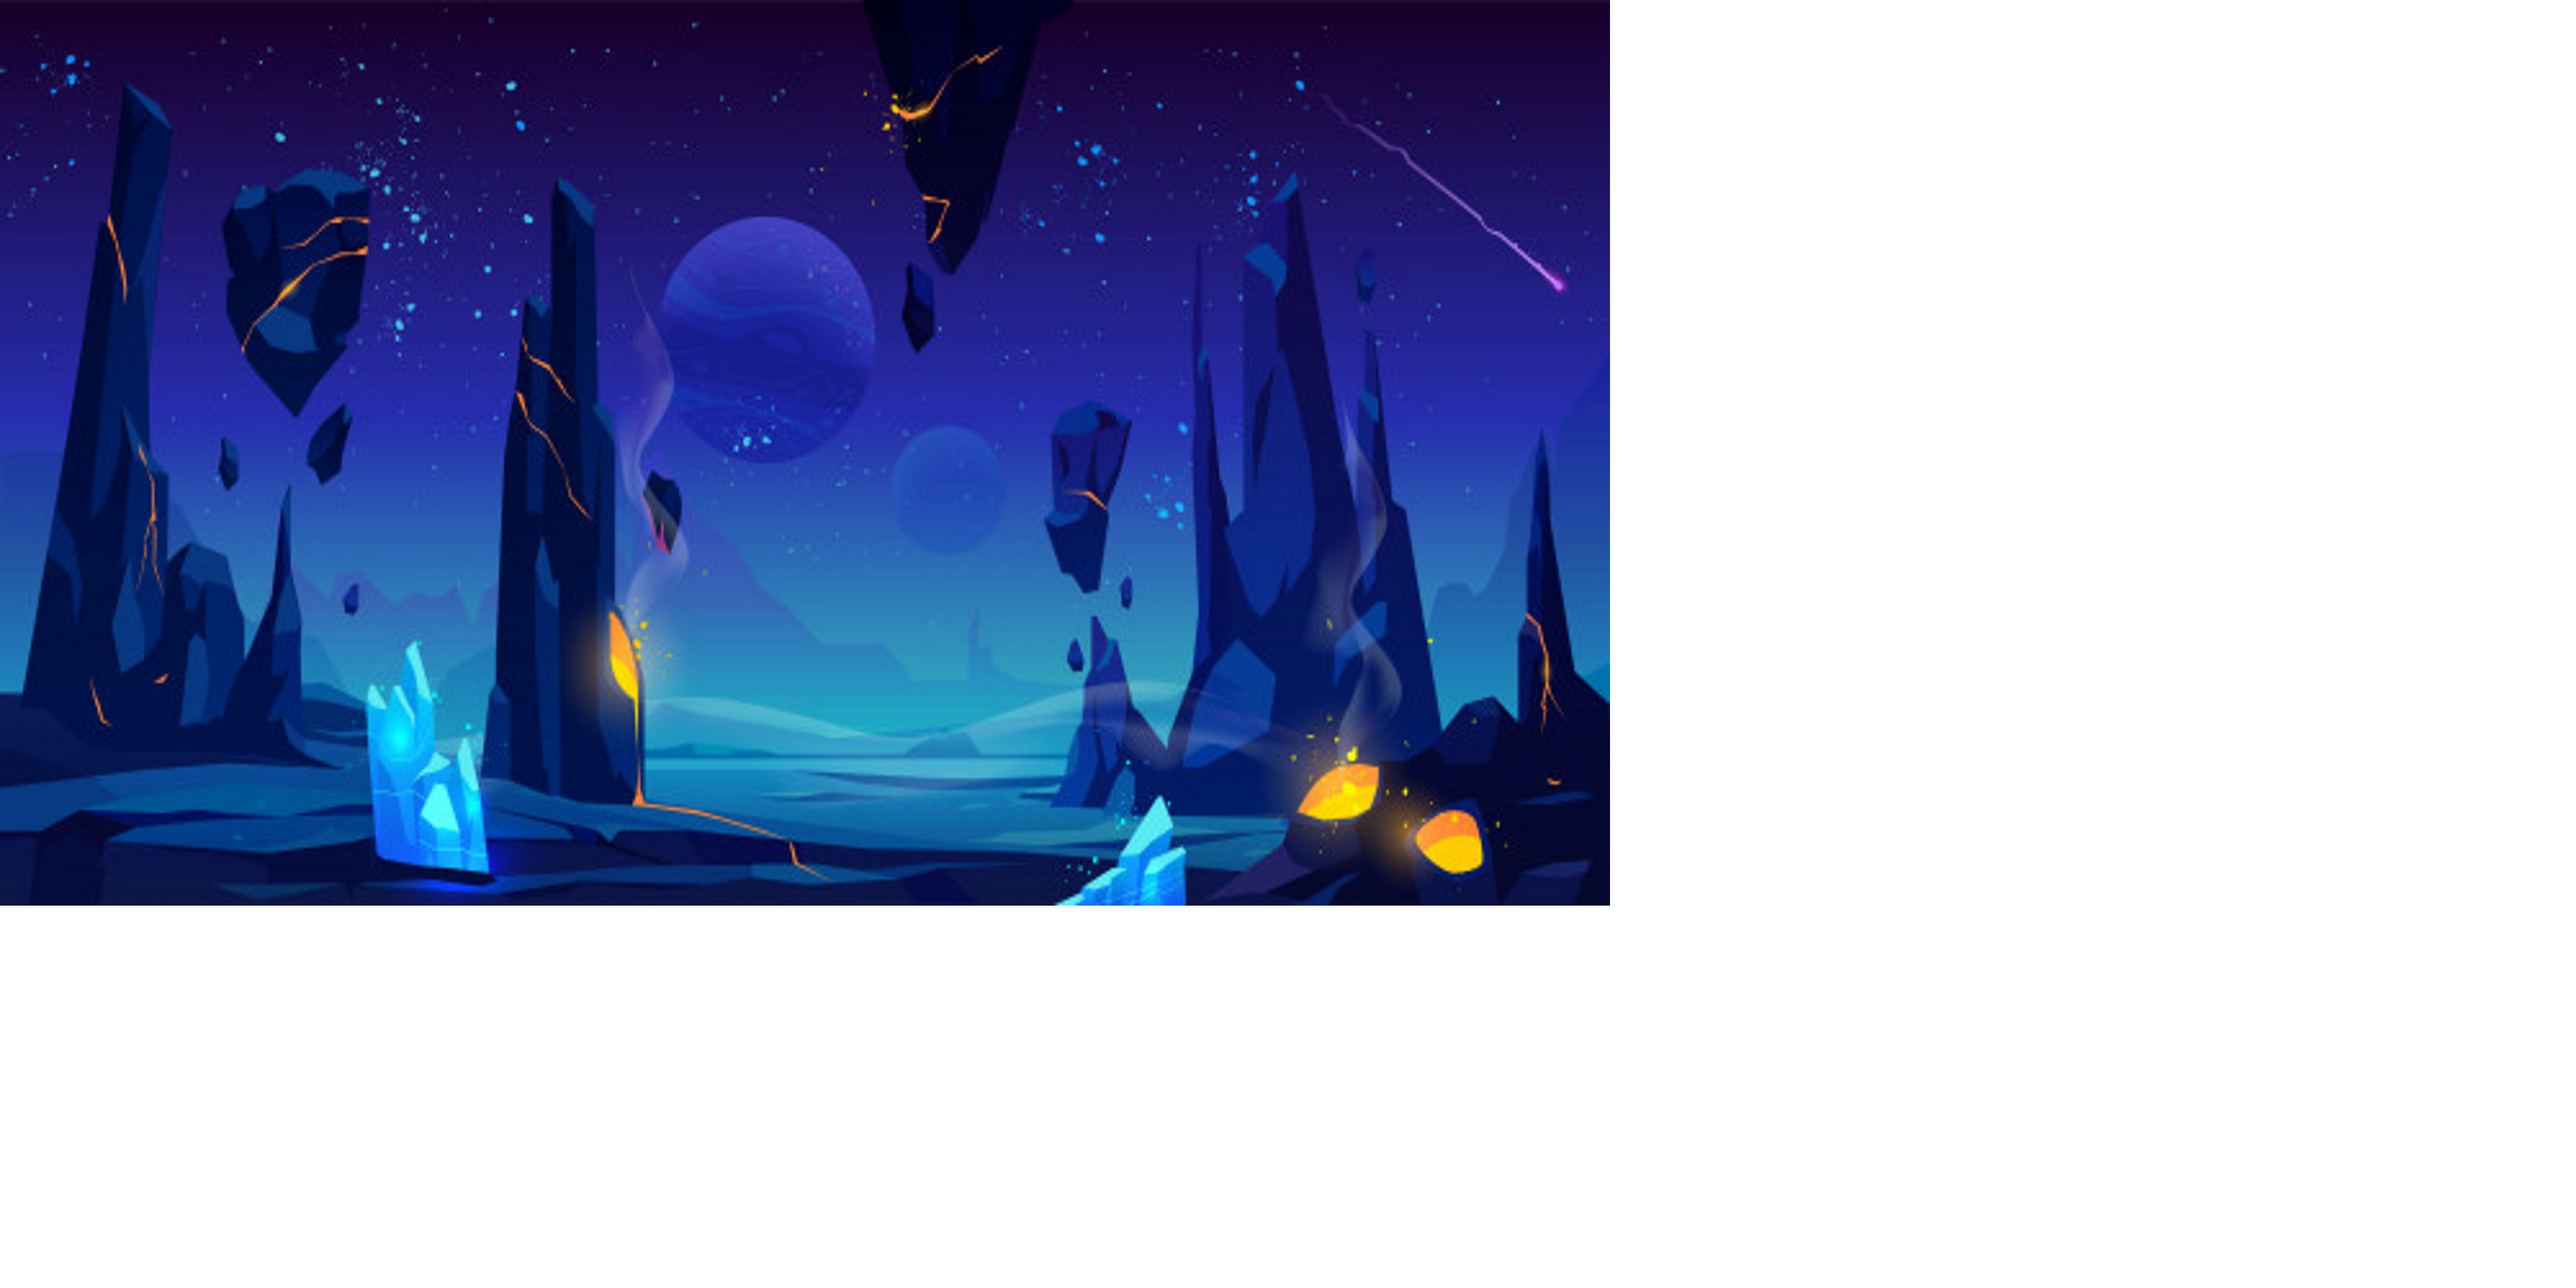
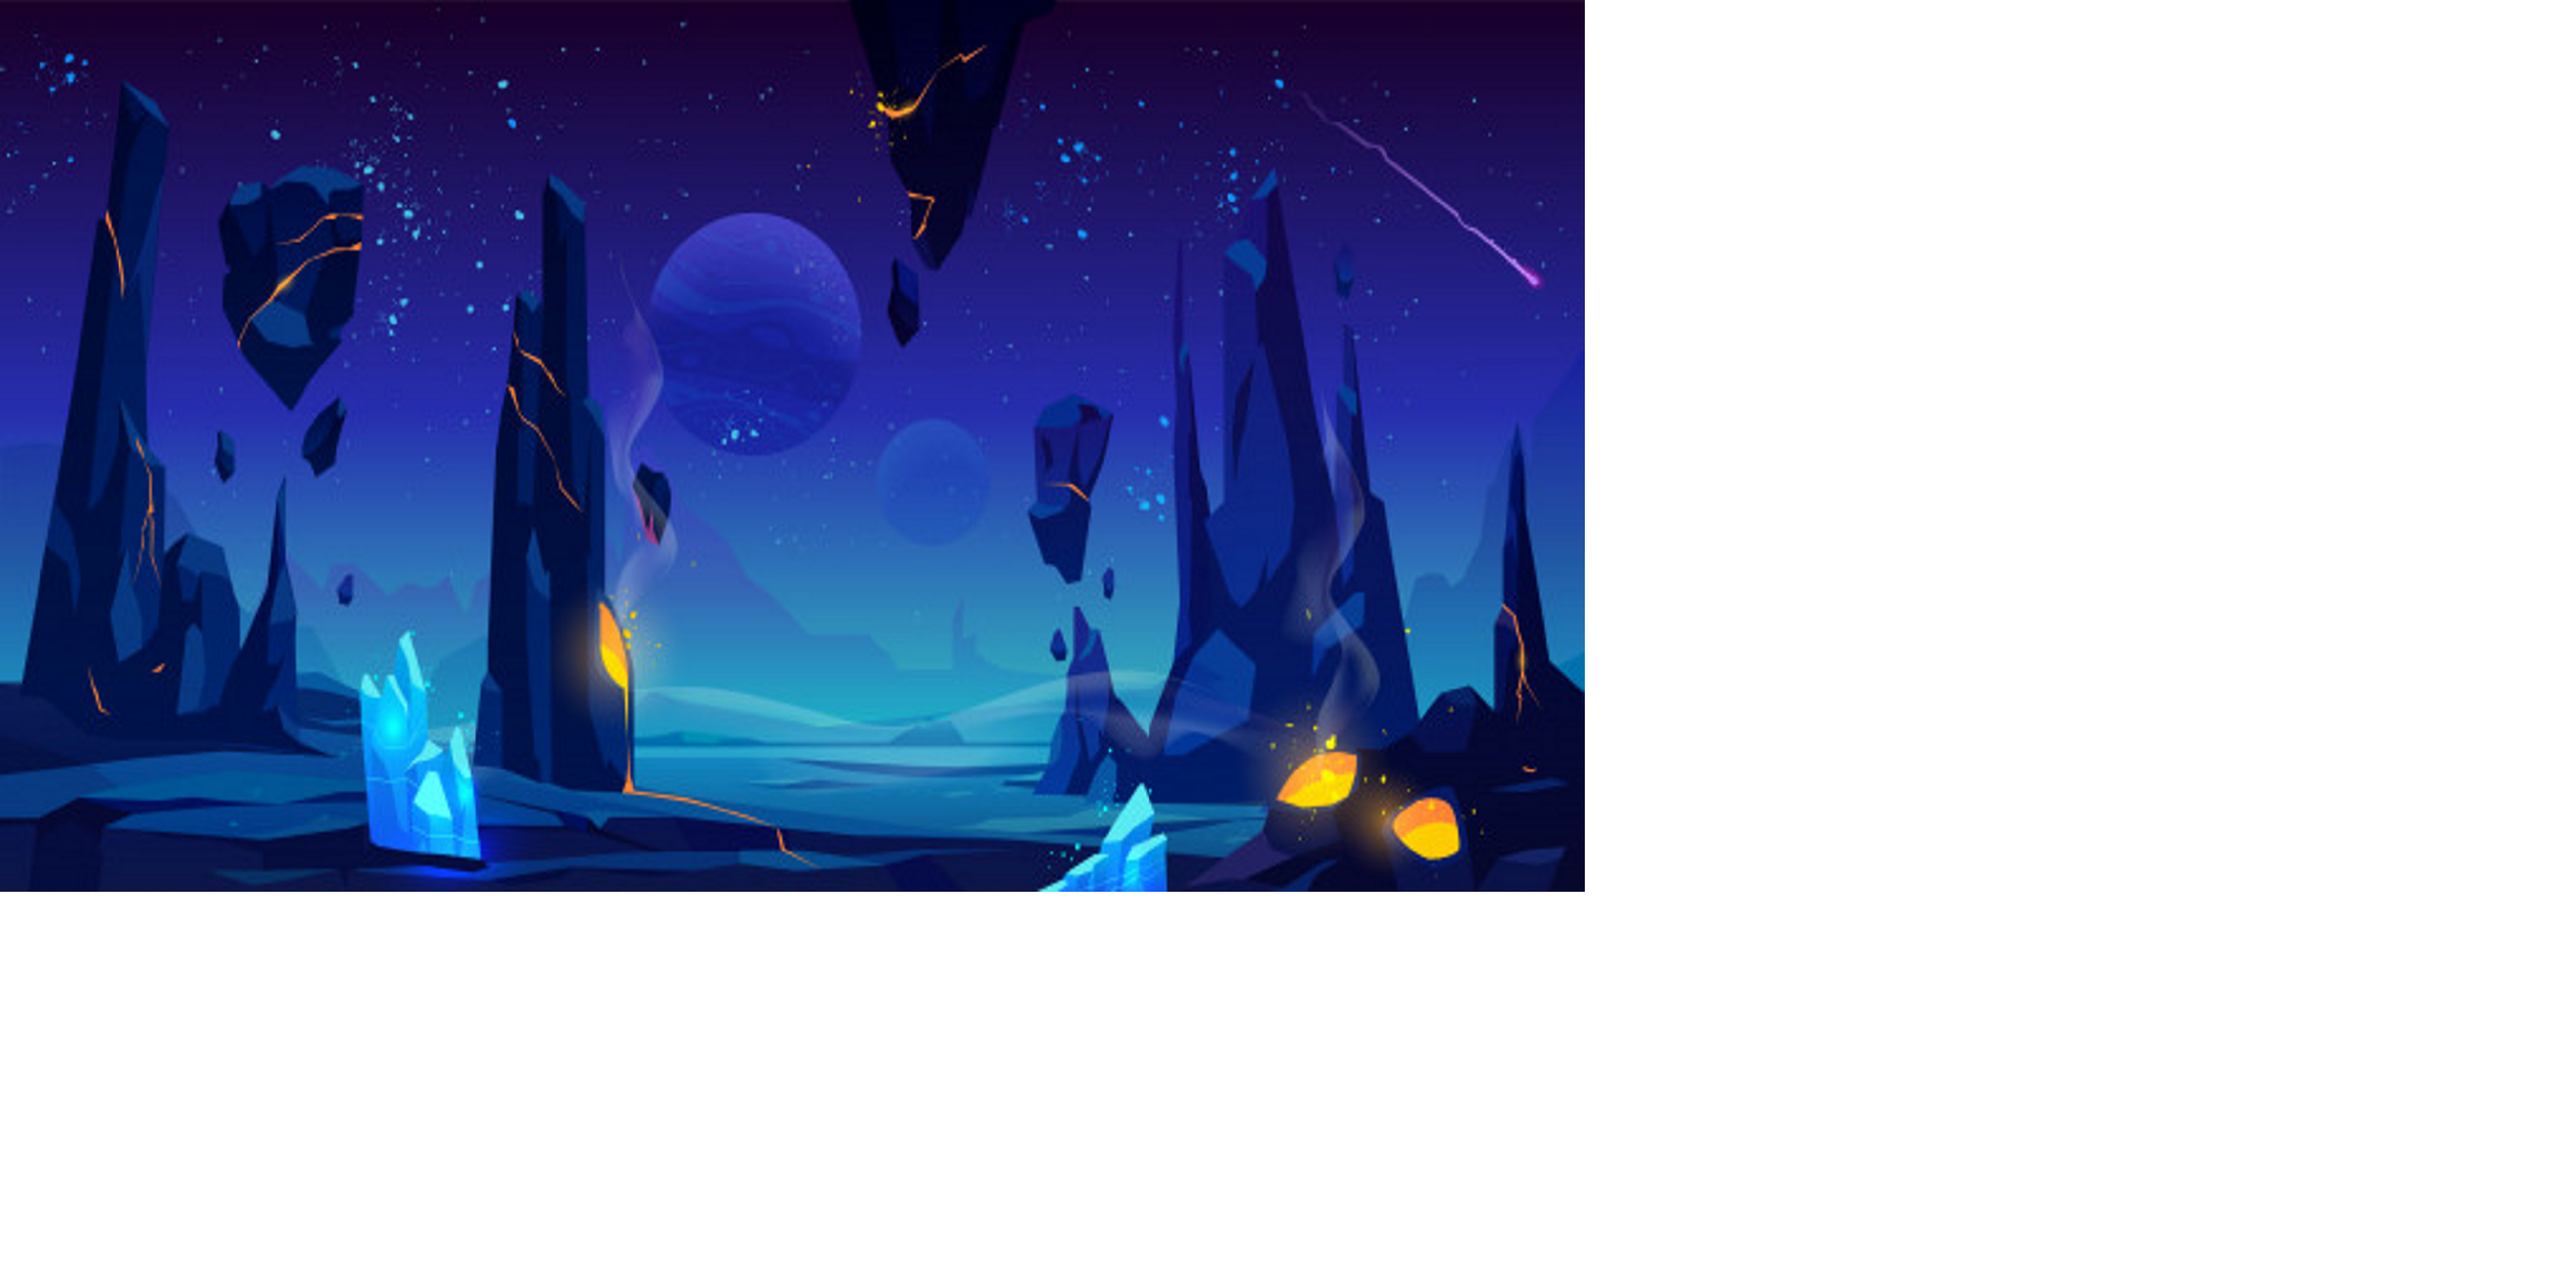
Add UI, Delete Collision, Change Buffer to 2520 x 1418
- Add UI
- Delete Collision
- Change Buffer to 2520 x 1418
- Fix Voon Meng Name XDDDD

diff --git a/CGP_Assignment/Code/Level/TestLevel.cpp b/CGP_Assignment/Code/Level/TestLevel.cpp
@@ -1,10 +1,10 @@
 #include "TestLevel.h"
 #include "../Component/Map.h"
-#include "../Component/Collision.h"
 #include "../Component/DirectInput.h"
 #include "../Component/EnemyController.h"
 #include "../Component/TowerBuilding.h"
 #include "../Component/GameWindows.h"
+#include "../Component/UI.h"
 
 TestLevel::TestLevel()
 {
@@ -17,6 +17,7 @@ TestLevel::~TestLevel()
 }
 
 TowerBuilding * towerBuilding;
+Ui * ui;
 
 void TestLevel::init()
 {
@@ -32,16 +33,23 @@ void TestLevel::init()
 
 	towerBuilding = new TowerBuilding;
 	towerBuilding->init();
+
+	ui = new Ui;
+	ui->init();
 }
 
 void TestLevel::fixUpdate()
 {
+	ui->fixUpdate();
+
 	towerBuilding->fixUpdate();
 	EnemyController::getInstance()->fixUpdate();
 }
 
 void TestLevel::update()
 {
+	ui->update();
+
 	if (GameWindows::getInstance()->keyIn == VK_DOWN)
 	{
 		EnemyController::getInstance()->isNextWave = true;
@@ -53,10 +61,14 @@ void TestLevel::update()
 
 void TestLevel::draw()
 {
+	ui->backDraw();
+
 	Map::getInstance()->drawMap();
 
 	EnemyController::getInstance()->draw();
 	towerBuilding->draw();
+
+	ui->draw();
 }
 
 void TestLevel::release()
@@ -64,4 +76,5 @@ void TestLevel::release()
 	EnemyController::getInstance()->release();
 	EnemyController::getInstance()->releaseInsrance();
 	towerBuilding->release();
+	ui->release();
 }

diff --git a/CGP_Assignment/Code/Level/MainMenu.cpp b/CGP_Assignment/Code/Level/MainMenu.cpp
@@ -7,6 +7,9 @@
 #include <d3d9.h>
 #include <stdio.h>
 
+#define START	0
+#define QUIT	1
+
 MainMenu::MainMenu()
 {
 	sprite = NULL;
@@ -51,8 +54,8 @@ void MainMenu::init()
 
 	//Background
 	backgroundRect.top = backgroundRect.left = 0;
-	backgroundRect.bottom = 1440;
-	backgroundRect.right = 2560;
+	backgroundRect.bottom = 1418;
+	backgroundRect.right = 2520;
 
 	//Title
 	titleRect1.top = 200;
@@ -66,14 +69,14 @@ void MainMenu::init()
 	titleRect2.right = titleRect2.left + 2000;
 
 	//Made by
-	madeByRect.top = 1250;
+	madeByRect.top = 1230;
 	madeByRect.left = 1075;
 	madeByRect.bottom = madeByRect.top + 100;
 	madeByRect.right = madeByRect.left + 2000;
 	
 	//Start Button
 	Button * button = new Button;
-	button->position.x = 1280;
+	button->position.x = 1250;
 	button->position.y = 720;
 	button->size.x = 345;
 	button->size.y = 122;
@@ -93,7 +96,7 @@ void MainMenu::init()
 	
 	//Quit Button
 	button = new Button;
-	button->position.x = 1280;
+	button->position.x = 1250;
 	button->position.y = 880;
 	button->size.x = 345;
 	button->size.y = 122;
@@ -174,11 +177,11 @@ void MainMenu::update()
 		{
 			switch (function)
 			{
-			case 0:
+			case START:
 				GameStateManager::getInstance()->currentState = 1;
 				break;
 
-			case 1:
+			case QUIT:
 				PostQuitMessage(0);
 				break;
 

diff --git a/CGP_Assignment/Code/Component/UI.cpp b/CGP_Assignment/Code/Component/UI.cpp
@@ -1,0 +1,70 @@
+#include "UI.h"
+#include "Graphic.h"
+#include "Map.h"
+
+Ui::Ui()
+{
+
+}
+
+Ui::~Ui()
+{
+
+}
+
+void Ui::init()
+{
+	hr[0] = D3DXCreateSprite(Graphic::getInstance()->d3dDevice, &sprite);
+	hr[1] = D3DXCreateTextureFromFile(Graphic::getInstance()->d3dDevice, "resource/UI_Background.png", &backgroundTexture);
+	hr[2] = D3DXCreateTextureFromFile(Graphic::getInstance()->d3dDevice, "resource/Button2.png", &buttonTexture);
+
+	for (int i = 0; i < 3; i++)
+	{
+		if (FAILED(hr[i]))
+		{
+			PostQuitMessage(0);
+		}
+	}
+}
+
+void Ui::fixUpdate()
+{
+
+}
+
+void Ui::update()
+{
+
+}
+
+void Ui::draw()
+{
+	sprite->Begin(D3DXSPRITE_ALPHABLEND);
+	
+	sprite->Draw(buttonTexture, NULL, NULL, NULL, D3DCOLOR_XRGB(0, 0, 255));
+
+	sprite->End();
+}
+
+void Ui::release()
+{
+	sprite->Release();
+	sprite = NULL;
+
+	backgroundTexture->Release();
+	backgroundTexture = NULL;
+
+	buttonTexture->Release();
+	buttonTexture = NULL;
+}
+
+void Ui::backDraw()
+{
+	sprite->Begin(D3DXSPRITE_ALPHABLEND);
+
+	sprite->Draw(backgroundTexture, NULL, NULL, NULL, D3DCOLOR_XRGB(255, 255, 255));
+
+	sprite->End();
+}
+
+

diff --git a/CGP_Assignment/Code/Component/UI.h b/CGP_Assignment/Code/Component/UI.h
@@ -1,0 +1,37 @@
+#ifndef UI
+#define UI
+
+#include <d3dx9.h>
+#include <vector>
+
+#include "../Object/Button.h"
+
+#define UI_X_FIX 20
+
+class Ui
+{
+public:
+	Ui();
+	~Ui();
+
+	HRESULT hr[3];
+
+	void init();
+	void fixUpdate();
+	void update();
+	void draw();
+	void release();
+
+	void backDraw();
+
+	LPD3DXSPRITE sprite;
+
+	LPDIRECT3DTEXTURE9 backgroundTexture;
+	LPDIRECT3DTEXTURE9 buttonTexture;
+
+	std::vector<Button*> buttonList;
+
+	D3DXVECTOR2 mapPos;
+};
+
+#endif //!MAIN_MENU

diff --git a/CGP_Assignment/Code/Component/GameWindows.cpp b/CGP_Assignment/Code/Component/GameWindows.cpp
@@ -64,7 +64,6 @@ LRESULT CALLBACK WindowProcedure(HWND hWnd, UINT message, WPARAM wParam, LPARAM 
 			GameWindows::getInstance()->mousePos.x = min(GameWindows::getInstance()->mousePos.x, BUFFER_WIDTH);
 			GameWindows::getInstance()->mousePos.y = min(GameWindows::getInstance()->mousePos.y, BUFFER_HEIGHT);
 		}
-		printf("%.2f, %.2f\n", GameWindows::getInstance()->mousePos.x, GameWindows::getInstance()->mousePos.y);
 		break;
 
 	default:

diff --git a/CGP_Assignment/Code/Level/MainMenu.h b/CGP_Assignment/Code/Level/MainMenu.h
@@ -9,7 +9,7 @@
 
 #define TITLE1 "TOWER"
 #define TITLE2 "DEFENSE"
-#define MADEBY "Made by Voong Meng & Kai Xian Team"
+#define MADEBY "Made by Voon Meng & Kai Xian"
 
 class MainMenu : public GameState
 {

diff --git a/CGP_Assignment/Code/Component/Graphic.h b/CGP_Assignment/Code/Component/Graphic.h
@@ -3,8 +3,8 @@
 #include <d3d9.h>
 #include <d3dx9.h>
 
-#define BUFFER_WIDTH 2560
-#define BUFFER_HEIGHT 1440
+#define BUFFER_WIDTH 2520
+#define BUFFER_HEIGHT 1418
 
 class Graphic
 {
